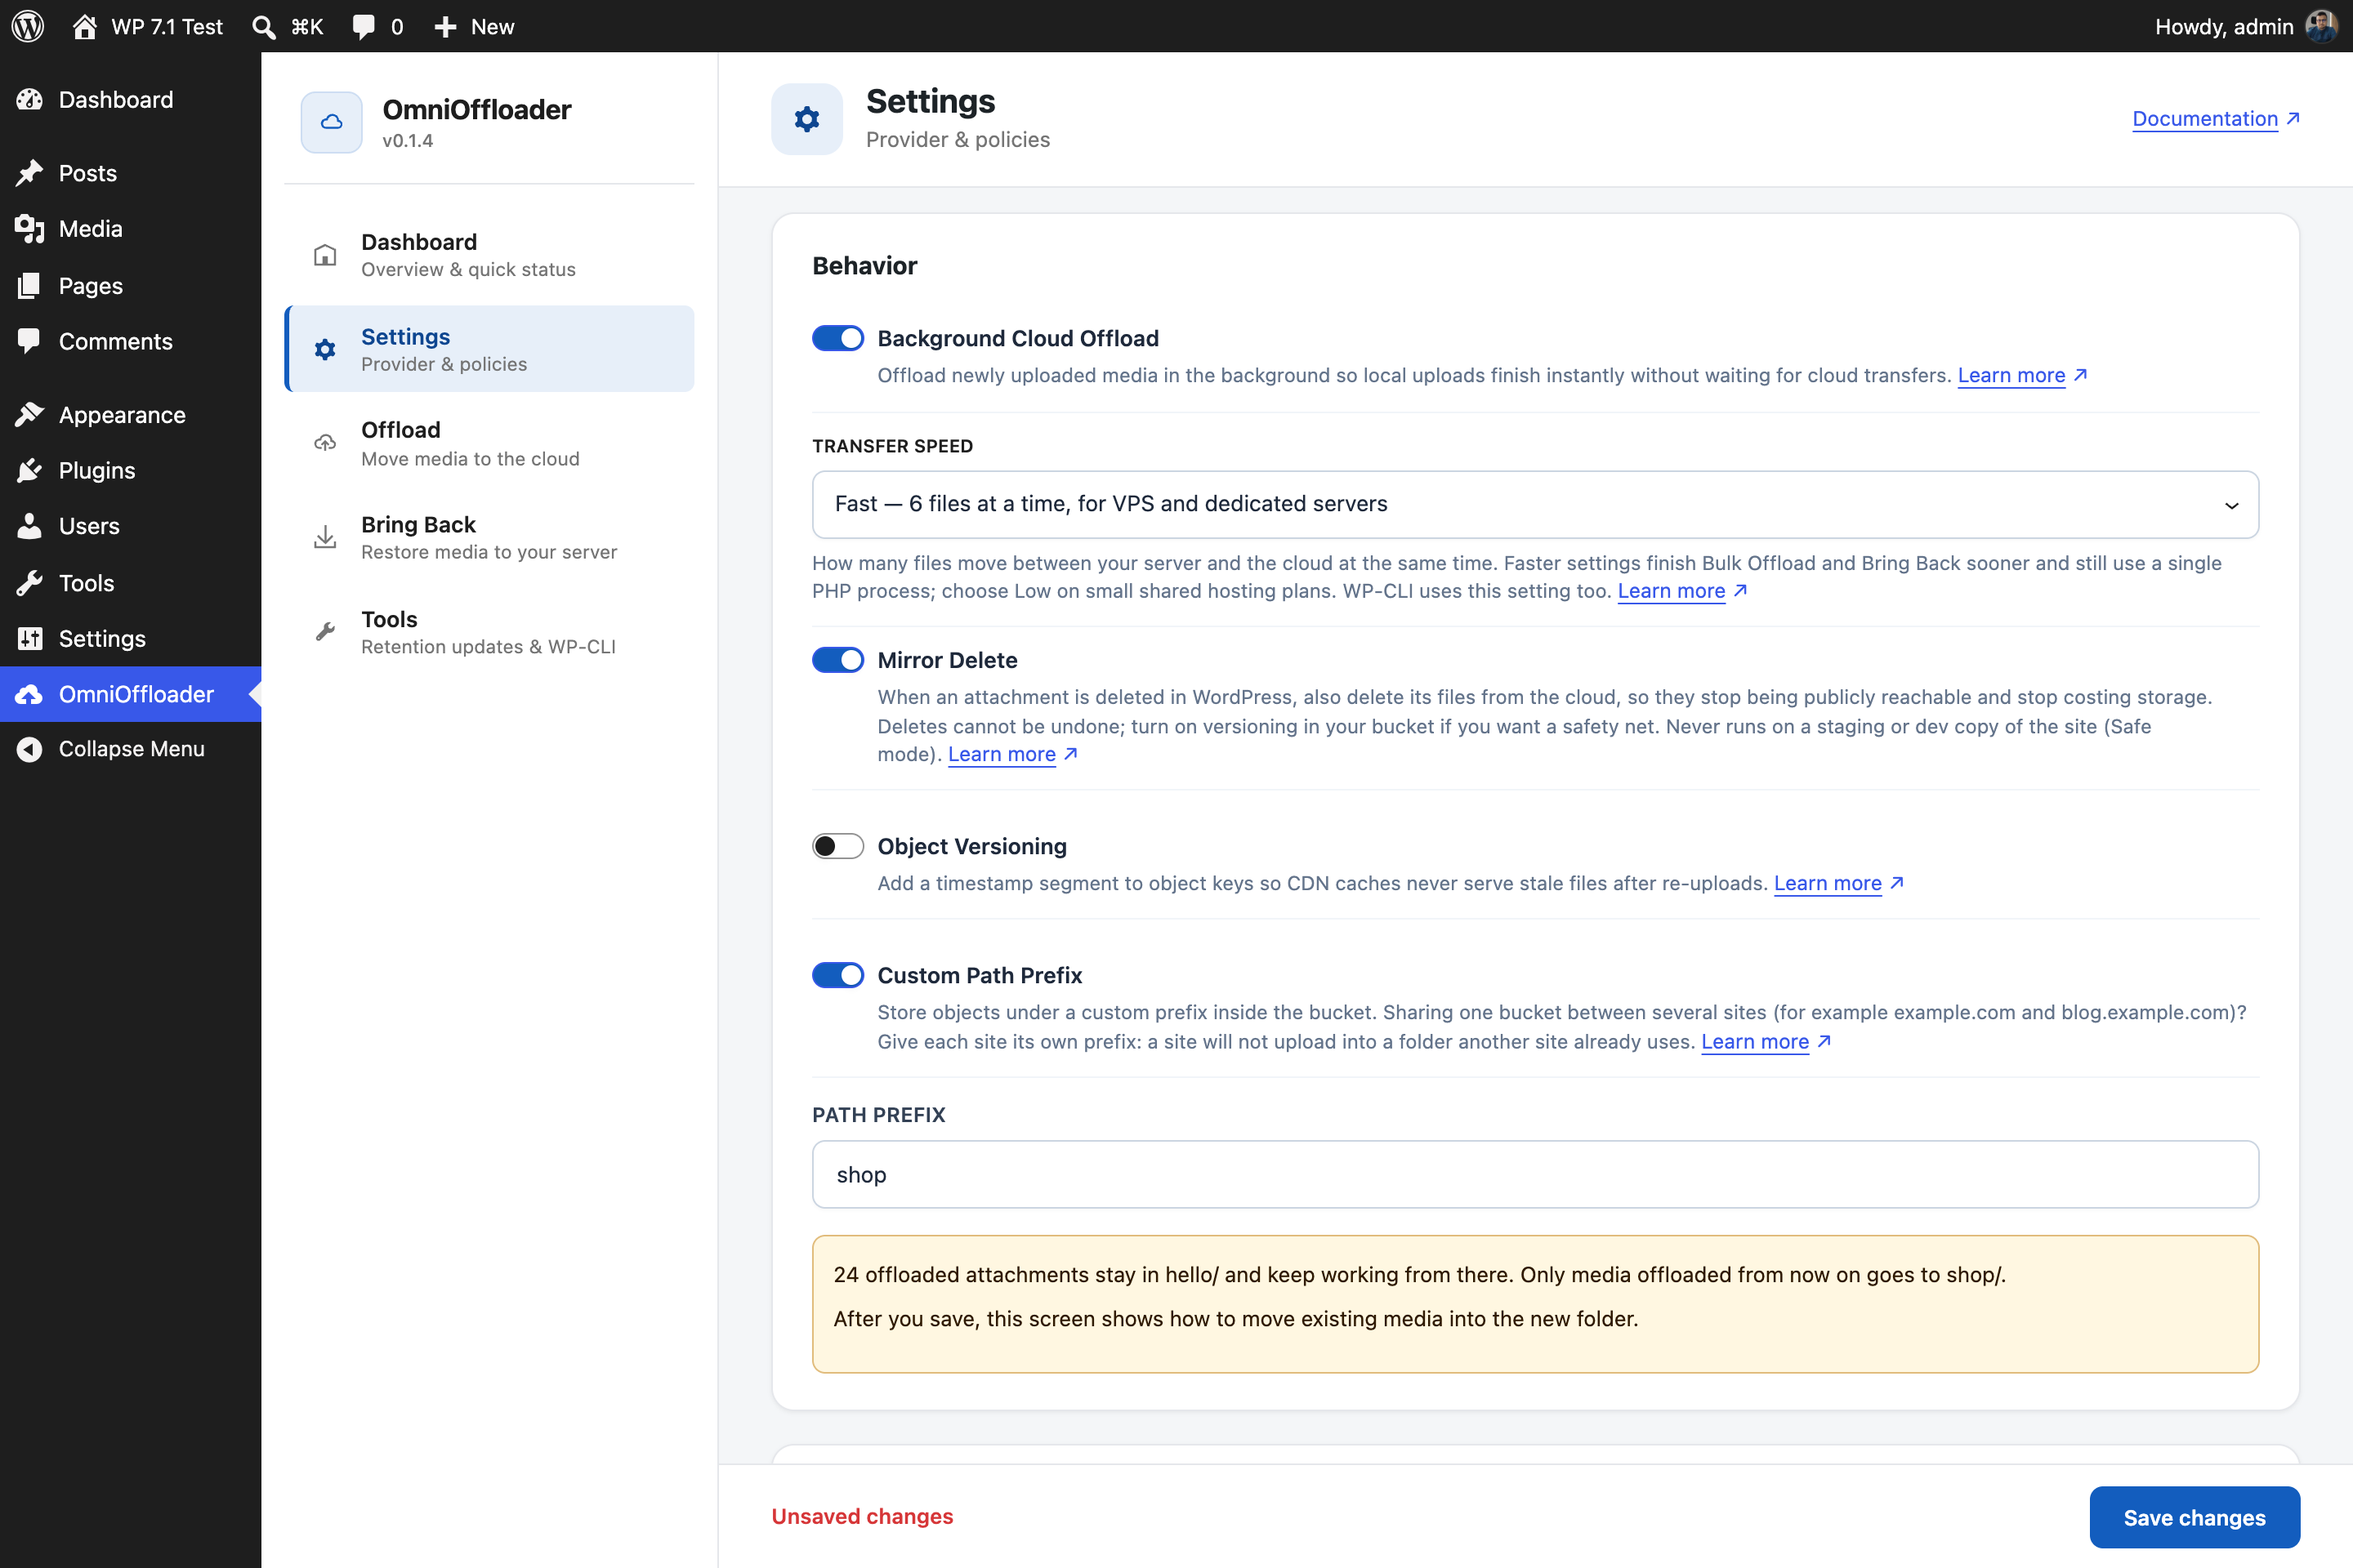
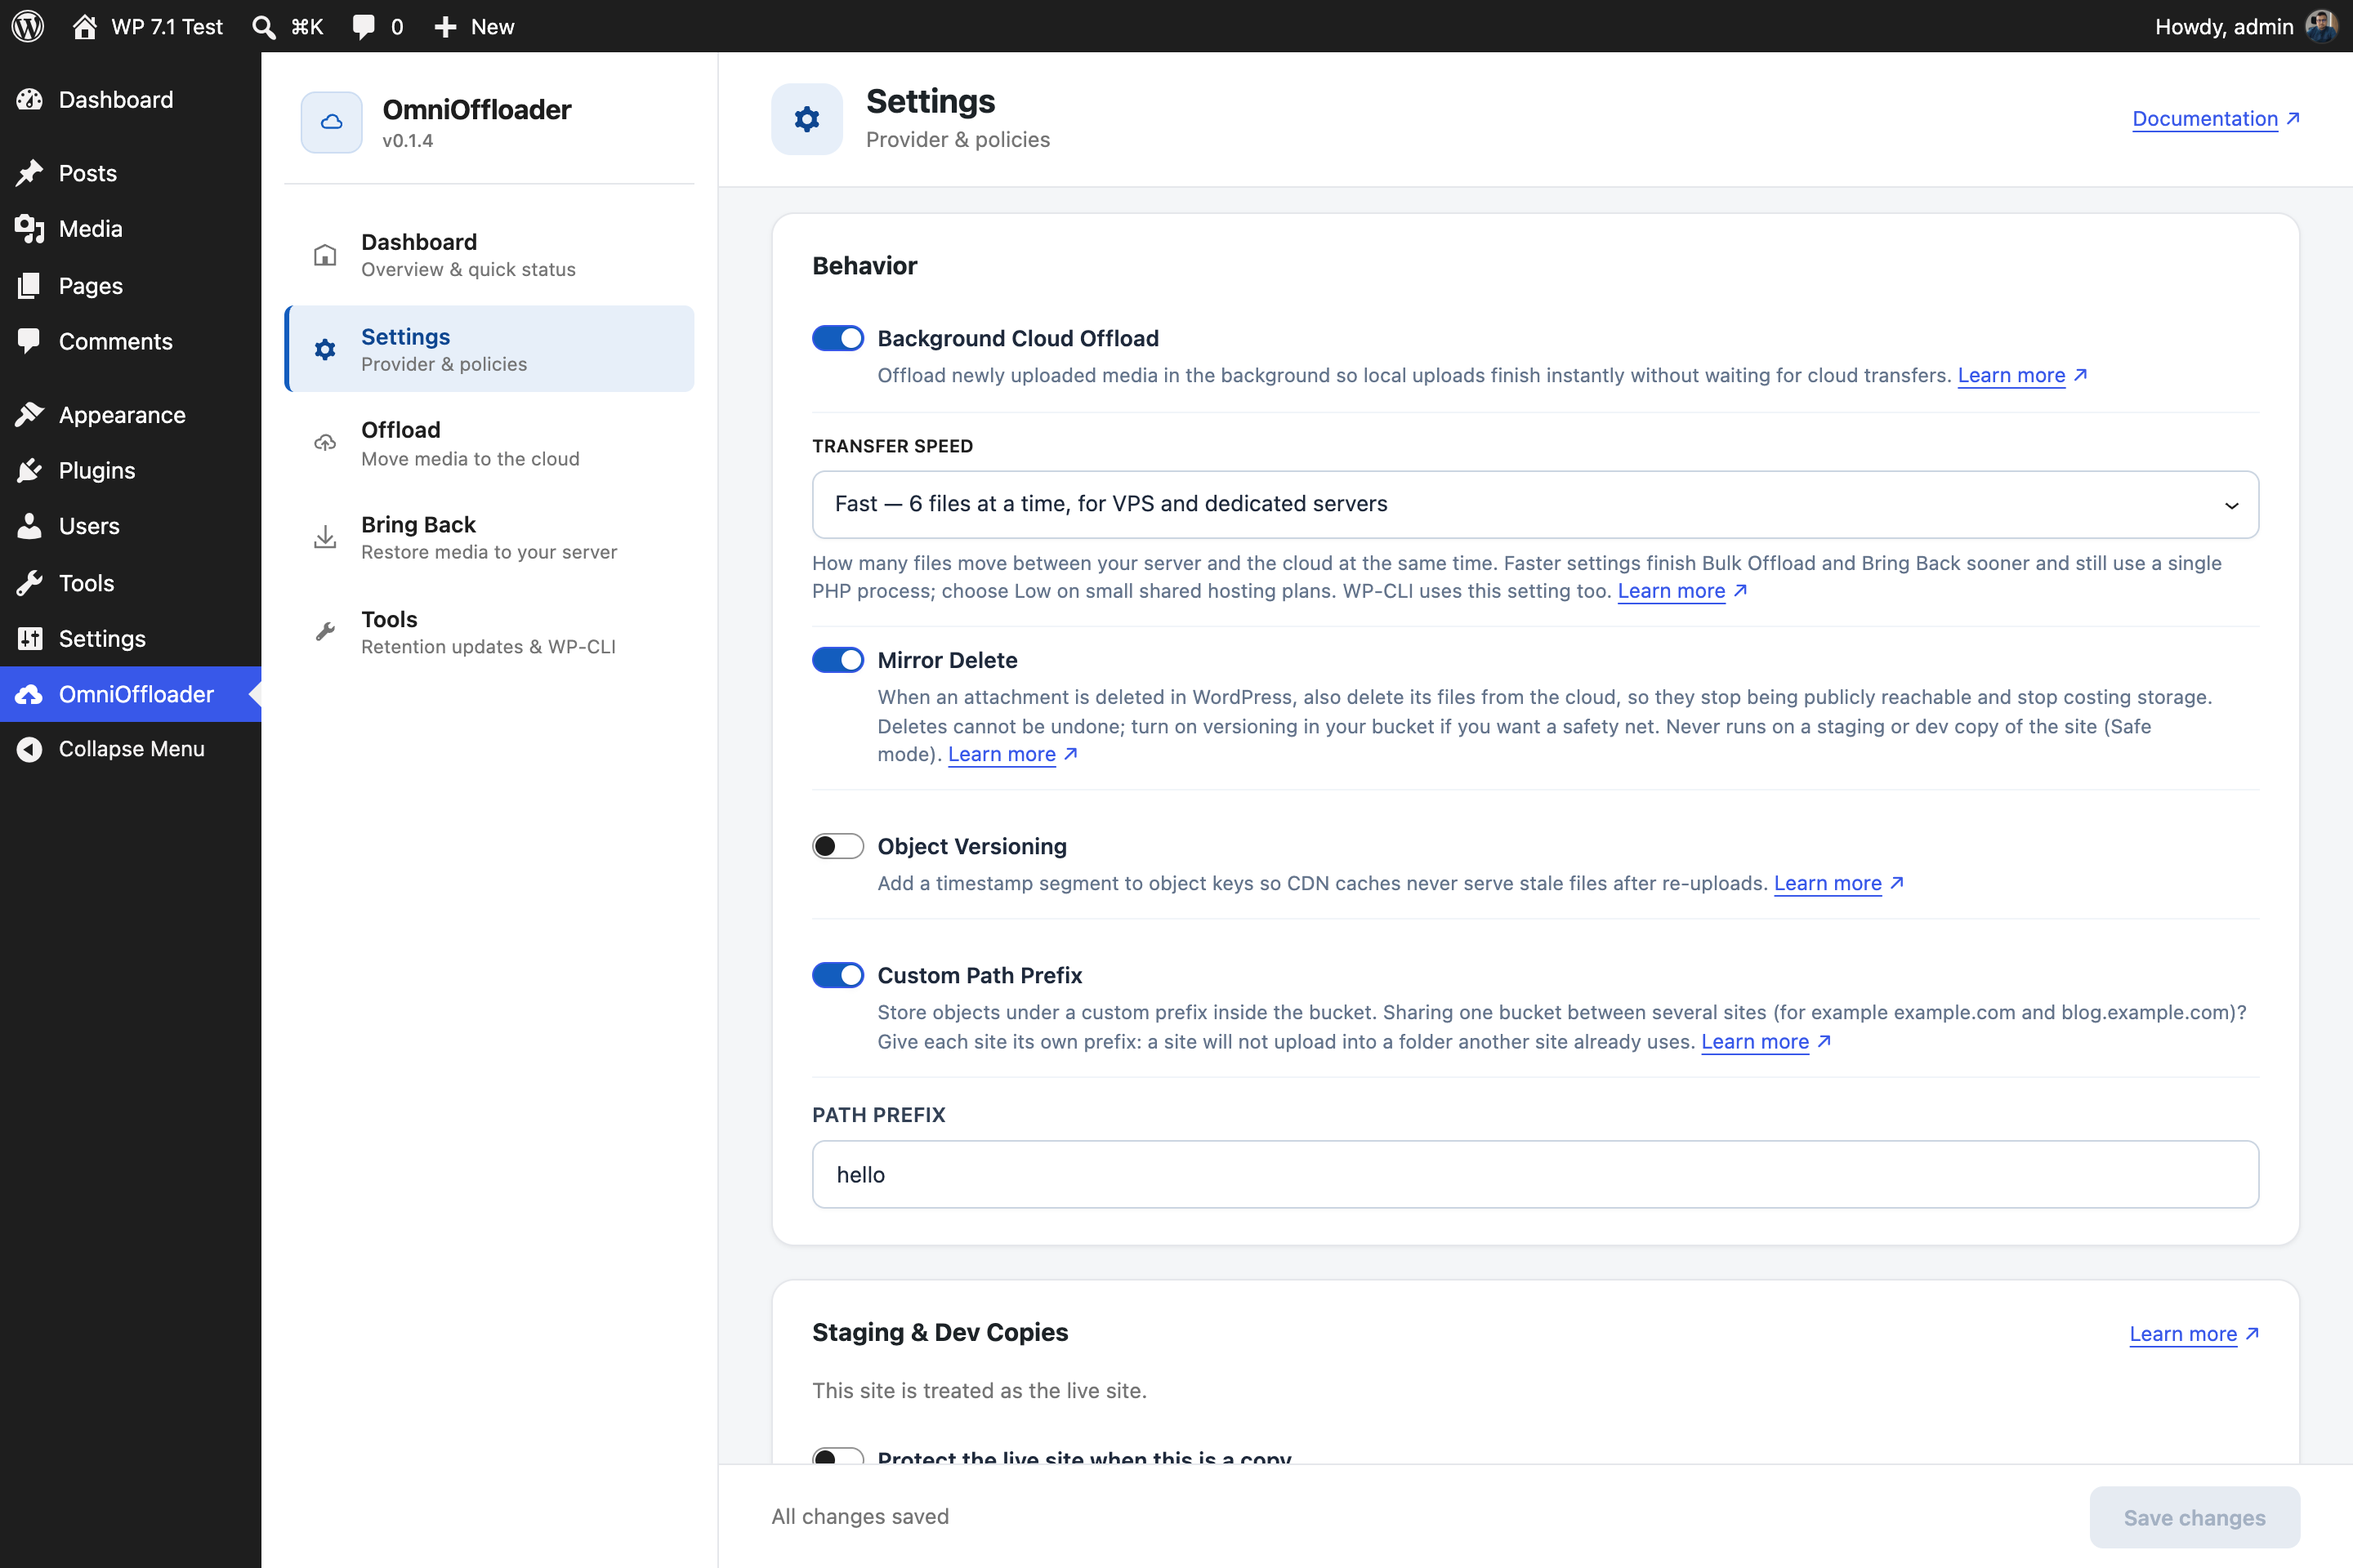
docs(screenshots): split the shared-bucket shot; add folder-claimed
- shared-bucket: just the Custom Path Prefix toggle and the saved
  folder, no notices (Shared Bucket setup, top of the Path Prefix page).
- folder-claimed (new): the Safe mode banner when another site already
  uses this site's bucket folder, with Choose a Path Prefix and This
  folder belongs to this site (stats faked in the browser only); shown
  under "If another site uses your folder".
- path-prefix-change (new): the unsaved folder-change warning and the
  Save confirmation, moved to "Changing the prefix later" where it
  belongs, before the after-save path-prefix-move shot.

Changed region(s): [[0.3438, 0.7812, 0.9688, 0.9688], [0.875, 0.9375, 1.0, 1.0]]

diff --git a/scripts/capture-screenshots.js b/scripts/capture-screenshots.js
@@ -177,6 +177,18 @@ function clearOverlay() {
   if (el) el.remove();
 }
 
+// Scroll so the nth .smowp-card (0-based) starts just below the sticky header.
+async function scrollToCard(page, index) {
+  await page.evaluate((i) => {
+    const card = document.querySelectorAll('.smowp-card')[i];
+    const header = document.querySelector('.smowp-header');
+    if (!card) return;
+    const covered = header ? header.getBoundingClientRect().bottom : 32;
+    const y = card.getBoundingClientRect().top + window.scrollY - covered - 16;
+    window.scrollTo({ top: Math.max(0, y), behavior: 'instant' });
+  }, index);
+}
+
 // Scroll so an element sits just below the sticky page header, optionally
 // starting `above` px higher to show some context.
 async function scrollBelowHeader(page, selector, above = 0) {
@@ -537,7 +549,7 @@ async function main() {
       ]
     },
 
-    // 9. Shared Bucket & Path Prefix (Dedicated to Custom Path Prefix)
+    // 9. Shared Bucket & Path Prefix: the saved folder, no notices
     {
       id: 9,
       slug: 'shared-bucket',
@@ -548,7 +560,27 @@ async function main() {
       url: 'https://wp71.test/wp-admin/admin.php?page=omnioffloader&view=settings',
       waitFor: '#omnioffloader-admin-app',
       beforeCapture: async (page) => {
-        // Find path prefix text input and set 'shop' cleanly via React native setter
+        await scrollToCard(page, 2);
+      },
+      annotations: [
+        { selector: '.smowp-card:nth-of-type(3) .components-toggle-control', index: 3, num: 1, label: 'Custom Path Prefix (Enable Isolated Bucket Subfolder per Site)', position: 'top-right', offsetY: -16 },
+        { selector: '.smowp-card:nth-of-type(3) .components-base-control:has(input[type="text"])', num: 2, label: 'This Site\'s Own Folder (e.g., "shop", "blog", "store")', position: 'top-right', offsetY: -16 },
+        { selector: '.smowp-card:nth-of-type(3) .components-toggle-control', index: 2, num: 3, label: 'Object Versioning (Prevents CDN Cache Overwrite Collisions)', position: 'top-left', offsetY: -16 }
+      ]
+    },
+
+    // 9b. Path Prefix changed (unsaved): existing media stays in its folder
+    {
+      id: 9,
+      slug: 'path-prefix-change',
+      wpOrgNum: null,
+      width: 1440,
+      height: 960,
+      title: 'Path Prefix Change Warning',
+      url: 'https://wp71.test/wp-admin/admin.php?page=omnioffloader&view=settings',
+      waitFor: '#omnioffloader-admin-app',
+      beforeCapture: async (page) => {
+        // Type a new folder through React's own value setter.
         const prefixInput = await page.$('input[placeholder="wp-content/uploads"]');
         if (prefixInput) {
           await page.evaluate((el) => {
@@ -558,19 +590,53 @@ async function main() {
             el.dispatchEvent(new Event('change', { bubbles: true }));
           }, prefixInput);
         }
-        await page.evaluate(() => {
-          const cards = document.querySelectorAll('.smowp-card');
-          if (cards.length >= 3) {
-            const y = cards[2].getBoundingClientRect().top + window.scrollY - (document.querySelector('.smowp-header').getBoundingClientRect().bottom + 16);
-            window.scrollTo({ top: Math.max(0, y), behavior: 'instant' });
-          }
-        });
+        await page.waitForSelector('.smowp-prefix-notice', { timeout: 4000 });
+        await scrollBelowHeader(page, '.smowp-prefix-notice', 380);
       },
       annotations: [
-        { selector: '.smowp-card:nth-of-type(3) .components-toggle-control', index: 3, num: 1, label: 'Custom Path Prefix (Enable Isolated Bucket Subfolder per Site)', position: 'top-right', offsetY: -16 },
-        { selector: '.smowp-card:nth-of-type(3) .components-base-control:has(input[type="text"])', num: 2, label: 'Dedicated Folder Name (e.g., "shop", "blog", "store")', position: 'top-right', offsetY: -16 },
-        { selector: '.smowp-prefix-notice', num: 4, label: 'Folder Change Warning: Existing Media Stays & Keeps Working', position: 'top-right', offsetY: -16 },
-        { selector: '.smowp-card:nth-of-type(3) .components-toggle-control', index: 2, num: 3, label: 'Object Versioning (Prevents CDN Cache Overwrite Collisions)', position: 'top-left', offsetY: -16 }
+        { selector: '.smowp-card:nth-of-type(3) .components-base-control:has(input[type="text"])', num: 1, label: 'New Folder for Media Offloaded from Now On', position: 'top-right', offsetY: -16 },
+        { selector: '.smowp-prefix-notice', num: 2, label: 'Existing Media Stays in Its Folder & Keeps Working', position: 'top-right', offsetY: -16 },
+        { selector: '.smowp-savebar__button', num: 3, label: 'Save Asks You to Confirm the Folder Change', position: 'left', offsetX: -18 }
+      ]
+    },
+
+    // 9c. Another site already uses this site's bucket folder
+    {
+      id: 9,
+      slug: 'folder-claimed',
+      wpOrgNum: null,
+      width: 1440,
+      height: 900,
+      title: 'Bucket Folder Used by Another Site',
+      url: 'https://wp71.test/wp-admin/admin.php?page=omnioffloader&view=settings',
+      mocks: [
+        {
+          path: '/omnioffloader/v1/core/stats',
+          data: {
+            total: 14,
+            offloaded: 14,
+            local: 0,
+            configured: true,
+            provider: 'cloudflare_r2',
+            safe_mode: {
+              active: true,
+              reason: 'folder',
+              locked: false,
+              live_address: 'https://wp71.test',
+              current_address: 'https://wp71.test',
+              environment: 'production',
+              bring_back: true,
+              folder_owner: 'https://shop.example.com',
+              folder: 'shop/'
+            }
+          }
+        }
+      ],
+      waitFor: '.smowp-safe-mode-banner',
+      annotations: [
+        { selector: '.smowp-safe-mode-banner', num: 1, label: 'Another Site Already Uses This Bucket Folder: Uploads & Deletes Paused', position: 'top-right', offsetY: -16 },
+        { selector: '.smowp-safe-mode-banner__actions .components-button.is-primary', num: 2, label: 'Fix: Choose a Path Prefix of This Site\'s Own', position: 'below-left', offsetY: 8 },
+        { selector: '.smowp-safe-mode-banner__actions .components-button.is-tertiary', num: 3, label: 'Or Take Over a Folder the Other Site No Longer Uses', position: 'right', offsetX: 18 }
       ]
     },
 

diff --git a/docs/src/content/docs/features/path-prefix-and-versioning.md b/docs/src/content/docs/features/path-prefix-and-versioning.md
@@ -37,7 +37,11 @@ You can change the prefix at any time. Each attachment remembers the folder it w
 - media already offloaded **stays in its folder and keeps loading** from there, with Bring Back, Mirror Delete and retention updates working as before, and
 - only media offloaded **from now on** goes to the new folder.
 
-Nothing breaks, but your media is then split across two folders. When media is offloaded, Settings says so under the field, and **Save changes** asks you to confirm the change. Once saved, Settings shows how many attachments are outside the current folder, with the WP-CLI commands to move them (recommended) and a **Move media in Tools** button.
+Nothing breaks, but your media is then split across two folders. When media is offloaded, Settings says so under the field, and **Save changes** asks you to confirm the change.
+
+![Settings after typing a new Path Prefix: existing media stays in its folder and keeps working; Save changes asks to confirm](/images/screenshots/path-prefix-change-marked.png)
+
+Once saved, Settings shows how many attachments are outside the current folder, with the WP-CLI commands to move them (recommended) and a **Move media in Tools** button.
 
 ![Settings after a Path Prefix change: media outside the current folder, the recommended WP-CLI move commands with copy buttons, and a Move media in Tools button](/images/screenshots/path-prefix-move-marked.png)
 
